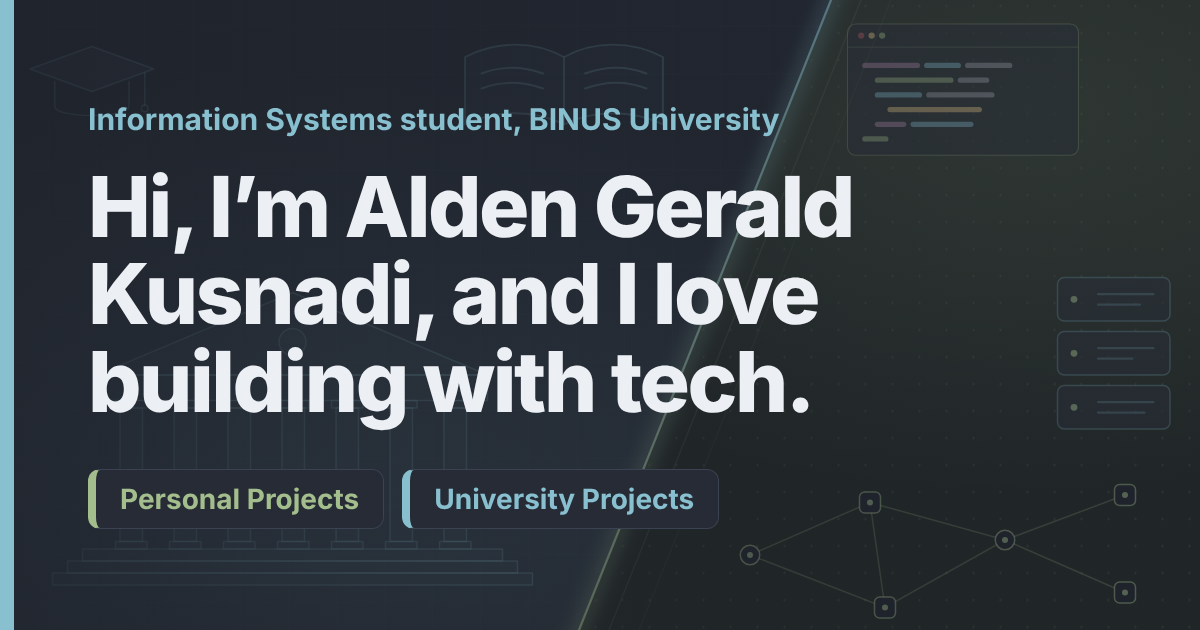
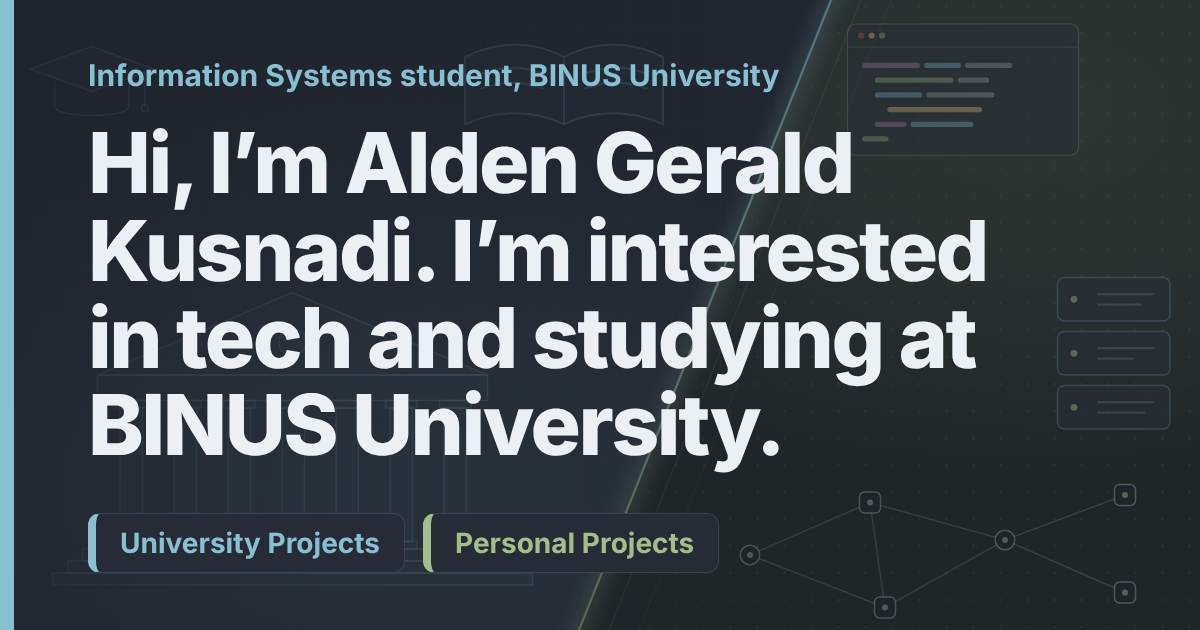
Rebuild hero: full-width headline, intro left, project panels right
Move GitHub to the nav, drop the hero buttons and kicker, refresh the OG
preview, and list University Projects first in the README.

Claude-Session: https://claude.ai/code/session_01ADi9Rfr8UzwcPMP77vzKZ1

Changed region(s): [[0.0617, 0.0905, 0.8325, 0.754], [0.0617, 0.754, 0.5858, 0.9048]]

diff --git a/style.css b/style.css
@@ -156,16 +156,14 @@ a:focus-visible {
   position: relative;
   z-index: 1;
   display: grid;
-  gap: 48px;
-  align-items: center;
+  gap: 28px;
+  align-items: start;
+  grid-template-areas: "head" "copy" "side";
 }
 
-.kicker {
-  margin-bottom: 20px;
-  color: var(--university);
-  font-weight: 700;
-  font-size: 1rem;
-}
+.hero__head { grid-area: head; min-width: 0; }
+.hero__copy { grid-area: copy; min-width: 0; }
+.hero__side { grid-area: side; display: grid; gap: 20px; min-width: 0; }
 
 h1 {
   font-size: clamp(3.5rem, 18vw, 5rem);
@@ -175,7 +173,7 @@ h1 {
 }
 
 .hero__subtitle {
-  max-width: 20ch;
+  max-width: 26ch;
   margin-top: 10px;
   padding-left: 0;
   font-size: clamp(1.9rem, 7.6vw, 2.75rem);
@@ -186,35 +184,12 @@ h1 {
 
 .lead {
   max-width: 58ch;
-  margin-top: 24px;
+  margin: 0;
   color: var(--muted);
   font-size: clamp(1.05rem, 2.4vw, 1.25rem);
 }
 
 .lead + .lead { margin-top: 14px; }
-
-.hero__side { display: grid; gap: 20px; min-width: 0; }
-
-.actions { display: flex; flex-wrap: wrap; gap: 12px; }
-
-.button {
-  display: inline-flex;
-  align-items: center;
-  min-height: 48px;
-  padding: 0 22px;
-  border: 1px solid var(--line-strong);
-  border-radius: 10px;
-  background: var(--surface);
-  color: var(--text);
-  font-weight: 700;
-  font-size: 1rem;
-  text-decoration: none;
-  transition: transform .18s ease-out, background-color .18s ease-out;
-}
-.button:hover { background: var(--raised); transform: translateY(-2px); }
-.button:active { transform: translateY(0); }
-.button--primary { background: var(--university); border-color: var(--university); color: var(--bg); }
-.button--primary:hover { background: #9ccbd9; }
 
 /* The two-part split: the one memorable element on the page */
 .split { display: grid; gap: 14px; }
@@ -396,7 +371,8 @@ h2::before {
   from { opacity: 0; transform: translateY(14px); }
   to { opacity: 1; transform: none; }
 }
-.hero__copy { animation: settle .6s ease-out both; }
+.hero__head { animation: settle .6s ease-out both; }
+.hero__copy { animation: settle .6s ease-out .08s both; }
 .split > li:nth-child(1) { animation: settle .6s ease-out .12s both; }
 .split > li:nth-child(2) { animation: settle .6s ease-out .22s both; }
 
@@ -414,17 +390,20 @@ h2::before {
 @media (min-width: 1000px) {
   :root { --gutter: max(48px, env(safe-area-inset-left), env(safe-area-inset-right)); --header-h: 72px; }
 
-  .hero__inner { grid-template-columns: minmax(0, 1.3fr) minmax(0, .9fr); gap: clamp(40px, 5vw, 96px); }
+  .hero__inner {
+    grid-template-columns: minmax(0, 1.3fr) minmax(0, .9fr);
+    grid-template-areas: "head head" "copy side";
+    gap: clamp(28px, 5vh, 56px) clamp(40px, 5vw, 96px);
+  }
   .hero__bg::after {
     background:
-      radial-gradient(ellipse 46% 62% at 28% 58%, rgba(31, 35, 43, .78), rgba(31, 35, 43, 0) 100%),
+      radial-gradient(ellipse 62% 34% at 34% 30%, rgba(31, 35, 43, .72), rgba(31, 35, 43, 0) 100%),
+      radial-gradient(ellipse 46% 40% at 28% 78%, rgba(31, 35, 43, .78), rgba(31, 35, 43, 0) 100%),
       linear-gradient(90deg, rgba(31, 35, 43, .66) 0%, rgba(31, 35, 43, .38) 52%, rgba(31, 35, 43, .46) 100%);
   }
-  .hero__side .actions { gap: 10px; }
-  .hero__side .button { padding: 0 14px; font-size: .95rem; }
 
-  h1 { font-size: clamp(4.5rem, min(8vw, 15vh), 8.5rem); }
-  .hero__subtitle { max-width: 22ch; font-size: clamp(2.1rem, min(3.1vw, 5.6vh), 3.4rem); }
+  h1 { font-size: clamp(4rem, min(7.4vw, 12.5vh), 7.5rem); }
+  .hero__subtitle { max-width: 34ch; font-size: clamp(2rem, min(3vw, 5vh), 3.25rem); }
   .lead { font-size: clamp(1.1rem, min(1.35vw, 2.6vh), 1.35rem); }
 
   .card--featured { grid-template-columns: minmax(0, .9fr) minmax(0, 1.1fr); gap: 44px; padding: 40px; }
@@ -441,12 +420,6 @@ h2::before {
   .card h3 { font-size: 1.6rem; }
 }
 
-/* Mid-size desktops: keep the three hero buttons on one row */
-@media (min-width: 1000px) and (max-width: 1500px) {
-  .hero__side .actions { gap: 8px; }
-  .hero__side .button { padding: 0 12px; font-size: .9rem; }
-}
-
 /* Short, wide windows (laptops at 16:9 with browser chrome) */
 @media (min-width: 1000px) and (max-height: 760px) {
   .hero { padding-top: 40px; padding-bottom: calc(40px + var(--slant)); }
@@ -456,8 +429,8 @@ h2::before {
 /* Small phones */
 @media (max-width: 420px) {
   .site-header__inner { flex-wrap: wrap; row-gap: 0; padding-block: 8px; }
-  .navlinks a { padding: 0 10px; }
-  .actions .button { width: 100%; justify-content: center; }
+  .navlinks { gap: 0; }
+  .navlinks a { padding: 0 8px; font-size: .95rem; }
   .card { padding: 22px; }
   .card--featured { padding: 18px; }
   .facts > div { grid-template-columns: 1fr; gap: 2px; }
@@ -465,8 +438,8 @@ h2::before {
 
 @media (prefers-reduced-motion: reduce) {
   html { scroll-behavior: auto; }
-  .hero__copy, .split > li { animation: none; }
+  .hero__head, .hero__copy, .split > li { animation: none; }
   .hero__bg { will-change: auto; transform: none !important; }
-  .button, .card, .card::after, .split__item, .project-link { transition: none; }
-  .button:hover, .card:hover, .split__item:hover { transform: none; }
+  .card, .card::after, .split__item, .project-link { transition: none; }
+  .card:hover, .split__item:hover { transform: none; }
 }

diff --git a/index.html b/index.html
@@ -38,6 +38,7 @@
           <li><a href="#university">University</a></li>
           <li><a href="#personal">Personal</a></li>
           <li><a href="#skills">Tools</a></li>
+          <li><a href="https://github.com/Alden-Gerald">GitHub</a></li>
           <li><a href="https://www.canva.com/design/DAHWHNhUkzI/Ov6pu36KBYYRnV_do8Z2TQ/view">CV</a></li>
         </ul>
       </nav>
@@ -48,21 +49,17 @@
     <section class="hero" id="top" aria-labelledby="hero-title hero-subtitle">
       <div class="hero__bg" aria-hidden="true"></div>
       <div class="shell hero__inner">
-        <div class="hero__copy">
-          <p class="kicker">BINUS University, Kemanggisan campus</p>
+        <div class="hero__head">
           <h1 id="hero-title">Hi,</h1>
-          <h2 class="hero__subtitle" id="hero-subtitle">I’m Alden Gerald Kusnadi, and I love building with tech.</h2>
+          <h2 class="hero__subtitle" id="hero-subtitle">My name is Alden Gerald Kusnadi, I’m interested in tech and I’m currently studying at BINUS University @ Region Kemanggisan</h2>
+        </div>
+
+        <div class="hero__copy">
           <p class="lead">I’m currently studying at BINUS University, Kemanggisan campus, majoring in Information Systems.</p>
           <p class="lead lead--second">Building these projects taught me to ask what a system needs before choosing how to build it: weighing trade-offs in cloud storage, separating a design into layers, validating input at the edges, and keeping risky changes behind checks. Below are four university projects and <span translate="no">Lumina</span>, a local-first AI workspace I built on my own. Every repository is public.</p>
         </div>
 
         <div class="hero__side">
-          <div class="actions">
-            <a class="button button--primary" href="#university">University Projects</a>
-            <a class="button" href="#personal">Personal Projects</a>
-            <a class="button" href="https://github.com/Alden-Gerald">GitHub Profile</a>
-          </div>
-
           <ul class="split" aria-label="Project groups">
             <li>
               <a class="split__item split__item--university" href="#university">

diff --git a/README.md b/README.md
@@ -7,12 +7,6 @@
 
 I'm Alden Gerald Kusnadi, an Information Systems student at BINUS University with a focus on cloud computing. This repository is the source of my portfolio site. Each project lives in its own public repository, so its source code, documentation, and history stay intact.
 
-## Personal Projects
-
-| Project | What it is | Technologies |
-| --- | --- | --- |
-| [Lumina](https://github.com/Alden-Gerald/Lumina) | A private, local-first workspace for chat, study, document work, and bounded coding tasks, built on my own to replace cloud AI services I use daily. Coding tasks run in disposable Git workspaces and are validated before a guarded apply step. | Python, Ollama, Git workspaces, MCP, unittest |
-
 ## University Projects
 
 | Project | Summary | Technologies |
@@ -21,6 +15,12 @@ I'm Alden Gerald Kusnadi, an Information Systems student at BINUS University wit
 | [Hampiness: Information System Design](https://github.com/Alden-Gerald/hampiness-system-design) | Team project where I covered system analysis and design: requirements, root-cause analysis, process and object models, and a proposed three-tier marketplace architecture. | Fishbone analysis, DFD, UML, three-tier architecture |
 | [Student Registration: JavaFX + MySQL](https://github.com/Alden-Gerald/student-registration-javafx) | Desktop CRUD application with input validation, confirmation feedback, and a separate DAO layer. | Java 17, JavaFX 21, MySQL/MariaDB, JDBC, DAO |
 | [ThriftVibe Marketplace](https://github.com/Alden-Gerald/thriftvibe-marketplace) | Team project with buyer, seller, and administrator workflows, where I built working pages and connected them to server-side logic and MySQL using PDO prepared statements. | PHP 8+, MySQL/MariaDB, HTML, CSS, JavaScript, PDO |
+
+## Personal Projects
+
+| Project | What it is | Technologies |
+| --- | --- | --- |
+| [Lumina](https://github.com/Alden-Gerald/Lumina) | A private, local-first workspace for chat, study, document work, and bounded coding tasks, built on my own to replace cloud AI services I use daily. Coding tasks run in disposable Git workspaces and are validated before a guarded apply step. | Python, Ollama, Git workspaces, MCP, unittest |
 
 ## Technologies
 
